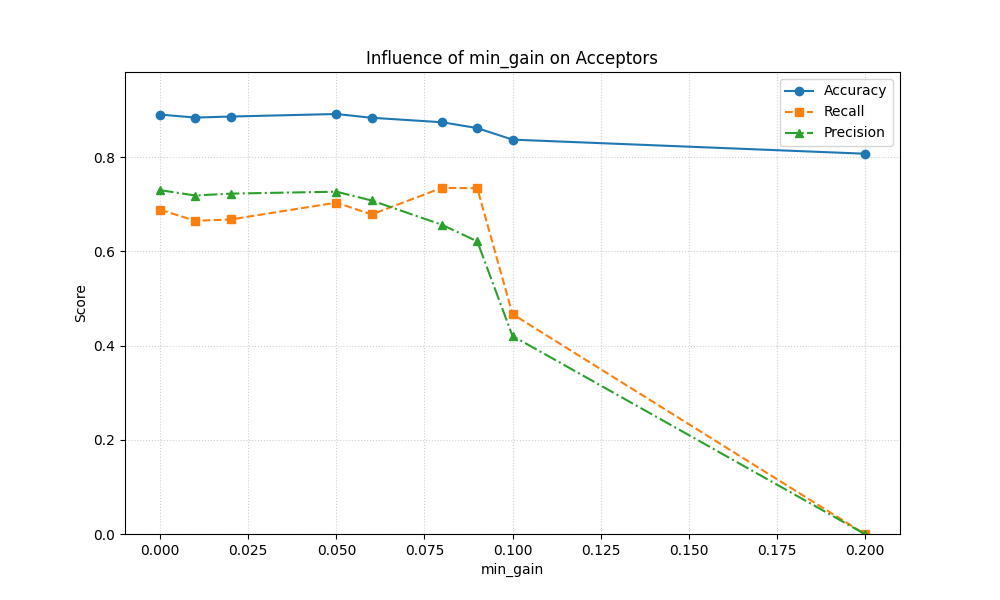
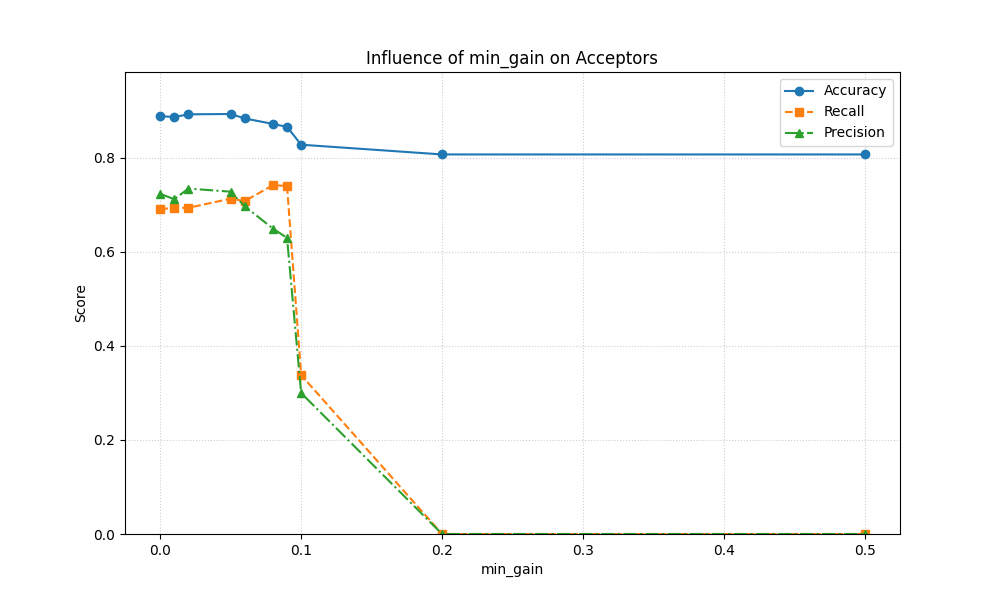
more experiments

diff --git a/code/experiments/experiments.py b/code/experiments/experiments.py
@@ -30,27 +30,28 @@ FILES = [
 # Base configutation to set while changing the other parameters
 BASE_CONFIGS = {
     "Donors": {
-        "depth": 5,
-        "min_samples_split": 30,
+        "depth": 15,
+        "min_samples_split": 15,
         "min_gain": 0.00
     },
     "Acceptors": {
-        "depth": 20,
-        "min_samples_split": 50,
+        "depth": 25,
+        "min_samples_split": 40,
         "min_gain": 0.00
     }
 }
 
+
 TEST_RANGES = {
     "Donors": {
         "depth": [3, 5, 7, 10, 15, 20, 40, 60, 80, 100, 120],
-        "min_samples_split": [1, 2, 10, 30, 50, 70, 90, 110],
-        "min_gain": [0.0, 0.01, 0.02, 0.05, 0.06, 0.08, 0.09, 0.1, 0.2]
+        "min_samples_split": [1, 2, 10, 30, 50, 70, 90, 110, 130],
+        "min_gain": [0.0, 0.01, 0.02, 0.05, 0.06, 0.08, 0.09, 0.1, 0.2, 0.5]
     },
     "Acceptors": {
-        "depth": [3, 5, 7, 10, 15, 20, 40, 50, 60, 80, 100, 120],
-        "min_samples_split": [1, 2, 10, 30, 50, 70, 90, 110],
-        "min_gain": [0.0, 0.01, 0.02, 0.05, 0.06, 0.08, 0.09, 0.1, 0.2]
+        "depth": [3, 5, 7, 10, 15, 20, 40, 60, 80, 100, 120],
+        "min_samples_split": [1, 2, 10, 30, 50, 70, 90, 110, 130],
+        "min_gain": [0.0, 0.01, 0.02, 0.05, 0.06, 0.08, 0.09, 0.1, 0.2, 0.5]
     },
 }
 

diff --git a/code/helper_methods.py b/code/helper_methods.py
@@ -107,7 +107,7 @@ def calculate_metrics(tree_model, test_data):
     return accuracy, conf_matrix, recall, precision
 
 def run_experiment(data, depth, min_samples_split, min_gain):
-    cross_validation_reps = 1
+    cross_validation_reps = 10
     acc, cm, rec, prec, model = evaluate_config(data, 0, depth, min_samples_split, min_gain, cross_validation_reps)
     return {
         "accuracy": acc,
